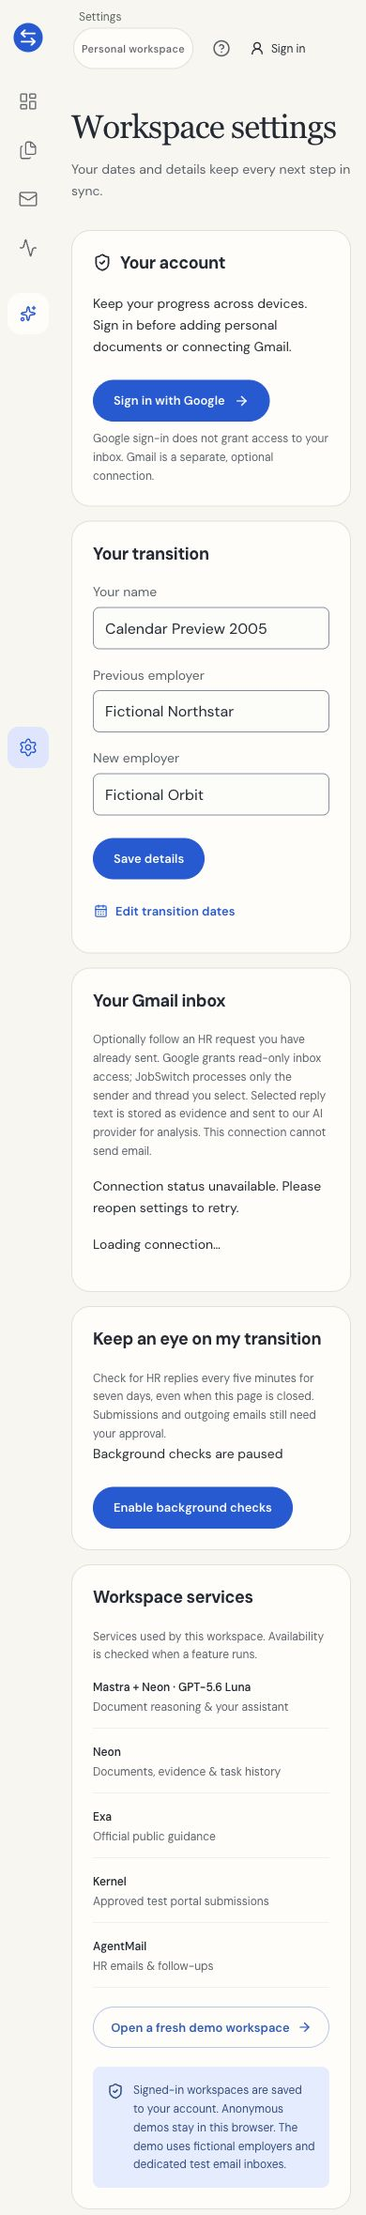
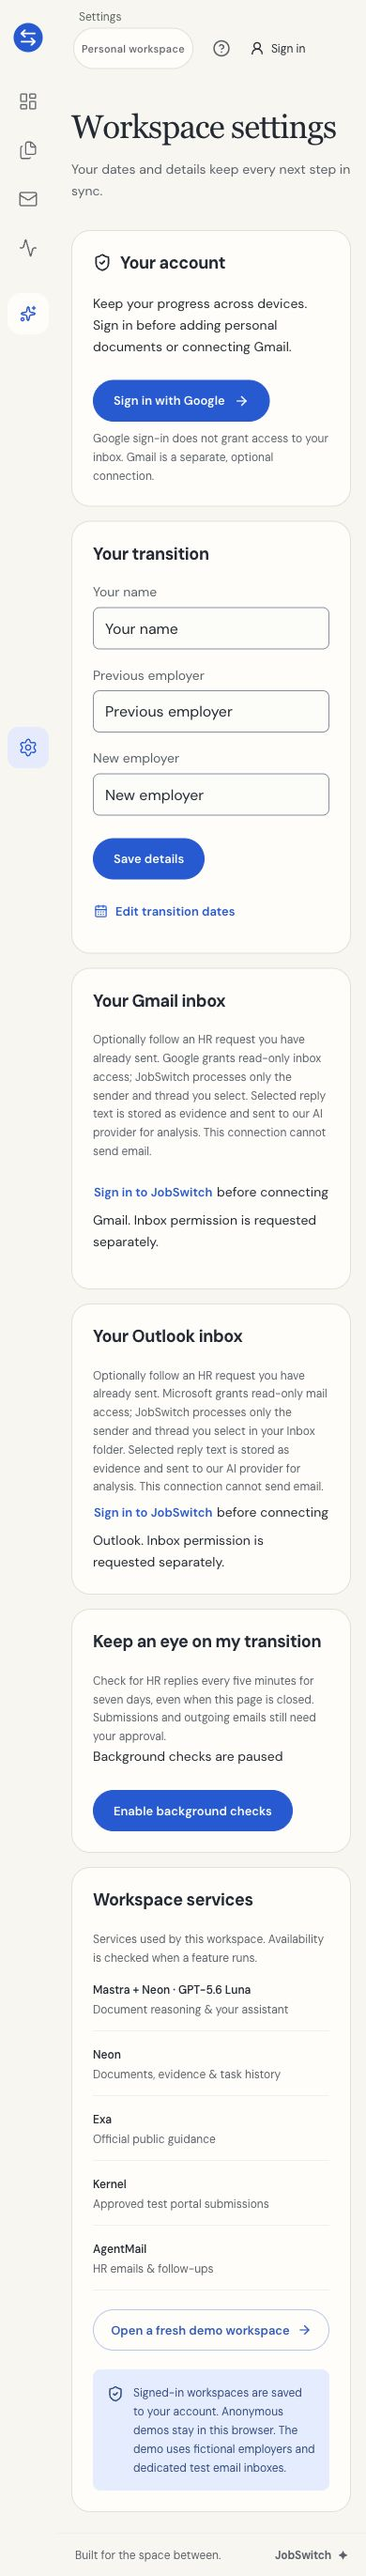
test: verify account isolation and document responsive flows

diff --git a/scripts/accounts-smoke.ts b/scripts/accounts-smoke.ts
@@ -108,7 +108,12 @@ async function request(
 try {
   await admin.query(`CREATE SCHEMA ${schema}`);
   await admin.query(`SET search_path TO ${schema}`);
-  for (const file of ["001_jobswitch.sql", "002_gmail.sql", "004_accounts.sql"])
+  for (const file of [
+    "001_jobswitch.sql",
+    "002_gmail.sql",
+    "003_outlook.sql",
+    "004_accounts.sql",
+  ])
     await admin.query(await readFile(`migrations/${file}`, "utf8"));
   const db = new URL(process.env.DATABASE_URL_UNPOOLED!);
   db.searchParams.set("options", `-c search_path=${schema}`);
@@ -143,6 +148,15 @@ try {
   const guest = jar();
   assert.equal((await request(guest, "/api/state")).status, 200);
   const guestCopy = new Map(guest);
+  assert.equal(
+    (await request(guest, "/api/account", { action: "demo" })).status,
+    200,
+  );
+  assert.equal(
+    guest.get("jobswitch_session"),
+    guestCopy.get("jobswitch_session"),
+    "Trying demo preserves existing guest progress",
+  );
   for (const path of [
     "/api/documents",
     "/api/gmail/connect",
@@ -194,6 +208,28 @@ try {
     (await request(secondDevice, "/api/account")).data.activeWorkspace,
     guestId,
   );
+  const concurrentGuest = jar();
+  await request(concurrentGuest, "/api/state");
+  const concurrentId = concurrentGuest.get("jobswitch_session")!.split(".")[0];
+  users.set("fixture-c", "account-c");
+  users.set("fixture-d", "account-d");
+  const c = new Map(concurrentGuest);
+  c.set(tokenName, "fixture-c");
+  const d = new Map(concurrentGuest);
+  d.set(tokenName, "fixture-d");
+  const concurrent = await Promise.all([
+    request(c, "/api/account"),
+    request(d, "/api/account"),
+  ]);
+  assert.equal(
+    concurrent.filter((r) => r.data.activeWorkspace === concurrentId).length,
+    1,
+    "Only one account may adopt a guest workspace",
+  );
+  assert.notEqual(
+    concurrent[0].data.activeWorkspace,
+    concurrent[1].data.activeWorkspace,
+  );
   const b = new Map(guestCopy);
   b.set(tokenName, "fixture-b");
   const bAccount = await request(b, "/api/account");
@@ -235,6 +271,28 @@ try {
   const personal = await request(a, "/api/account");
   assert.equal(personal.data.workspaces.length, 2);
   assert.equal((await request(a, "/api/state")).data.demo, false);
+  const upload = new FormData();
+  upload.set(
+    "file",
+    new File(
+      ["Fictional employee handbook: all eligibility remains unconfirmed."],
+      "fictional-policy.txt",
+      { type: "text/plain" },
+    ),
+  );
+  upload.set("employer", "previous");
+  upload.set("kind", "policy");
+  const uploadResponse = await fetch(`${origin}/api/documents`, {
+    method: "POST",
+    headers: { origin, cookie: [...a].map(([k, v]) => `${k}=${v}`).join("; ") },
+    body: upload,
+  });
+  assert.equal(
+    uploadResponse.status,
+    200,
+    "Authenticated personal upload succeeds",
+  );
+  assert.equal((await request(a, "/api/state")).data.documents.length, 1);
   assert.equal(
     (
       await request(a, "/api/account", {

diff --git a/docs/decisions/2026-10-04-200800-nolan-google-accounts.md b/docs/decisions/2026-10-04-200800-nolan-google-accounts.md
@@ -42,3 +42,11 @@ Use the repository's typecheck, tests, and build. `scripts/accounts-smoke.ts` ru
 ## Upstream integration
 
 The Outlook connector merged during this task. Its private inbox routes now enforce the same account requirement as Gmail, with a sign-in callout in Settings. Outlook remains a separate mail connection; it is not a JobSwitch login provider. Existing loading timeout/recovery and connector UI changes are preserved.
+
+## Verification evidence
+
+- Node 24 typecheck, all 34 unit tests, production build, and isolated account lifecycle checks passed. Lifecycle checks include concurrent guest adoption, authenticated multipart upload, cross-account access rejection, provider outages, and revoked-cookie replay.
+- Live Neon Google initiation reaches Google's login page with only `openid email profile`. Human Google credential entry and consent were not completed by the agent.
+- T3 was unavailable; the Codex browser preview was used at 1440×1000 and 390×844. Inspected sign-in, anonymous continuation, account settings, and sign-in gating before upload.
+- [Desktop sign-in](../screenshots/accounts-desktop.png), [mobile sign-in](../screenshots/accounts-mobile.png), [desktop settings](../screenshots/accounts-settings-desktop.png), [mobile settings](../screenshots/accounts-settings-mobile.png).
+- No deployment was requested. Local ignored environment is configured; deployment Auth environment values and trusted domains still require the normal deployment setup.

diff --git a/docs/ui-development.md b/docs/ui-development.md
@@ -18,7 +18,7 @@ Use plain, reassuring language that explains what happened and what the person c
 
 ## Landing page and imagery
 
-The landing at `/` explains the product; `/workspace` contains the browser-bound workspace. Promote capabilities that actually exist and state demo or opt-in limits. Do not imply authentication, guaranteed outcomes, real customers, or live integrations that are absent.
+The landing at `/` explains the product; `/workspace` contains the transition workspace. `/sign-in` offers Google accounts, while fictional demos remain available without login. Personal uploads and inbox connections require an account. Promote capabilities that actually exist and state demo or opt-in limits. Do not imply authentication, guaranteed outcomes, real customers, or live integrations that are absent.
 
 Use photography and small product previews to explain benefits, alongside feature summaries and clear calls to action. Original generated imagery is welcome when it adds value. Store optimized assets locally, provide useful alt text and stable dimensions, lazy-load below-the-fold photos, and check crops and text overlays at narrow widths. Do not present generated people as real customers or testimonials.
 
